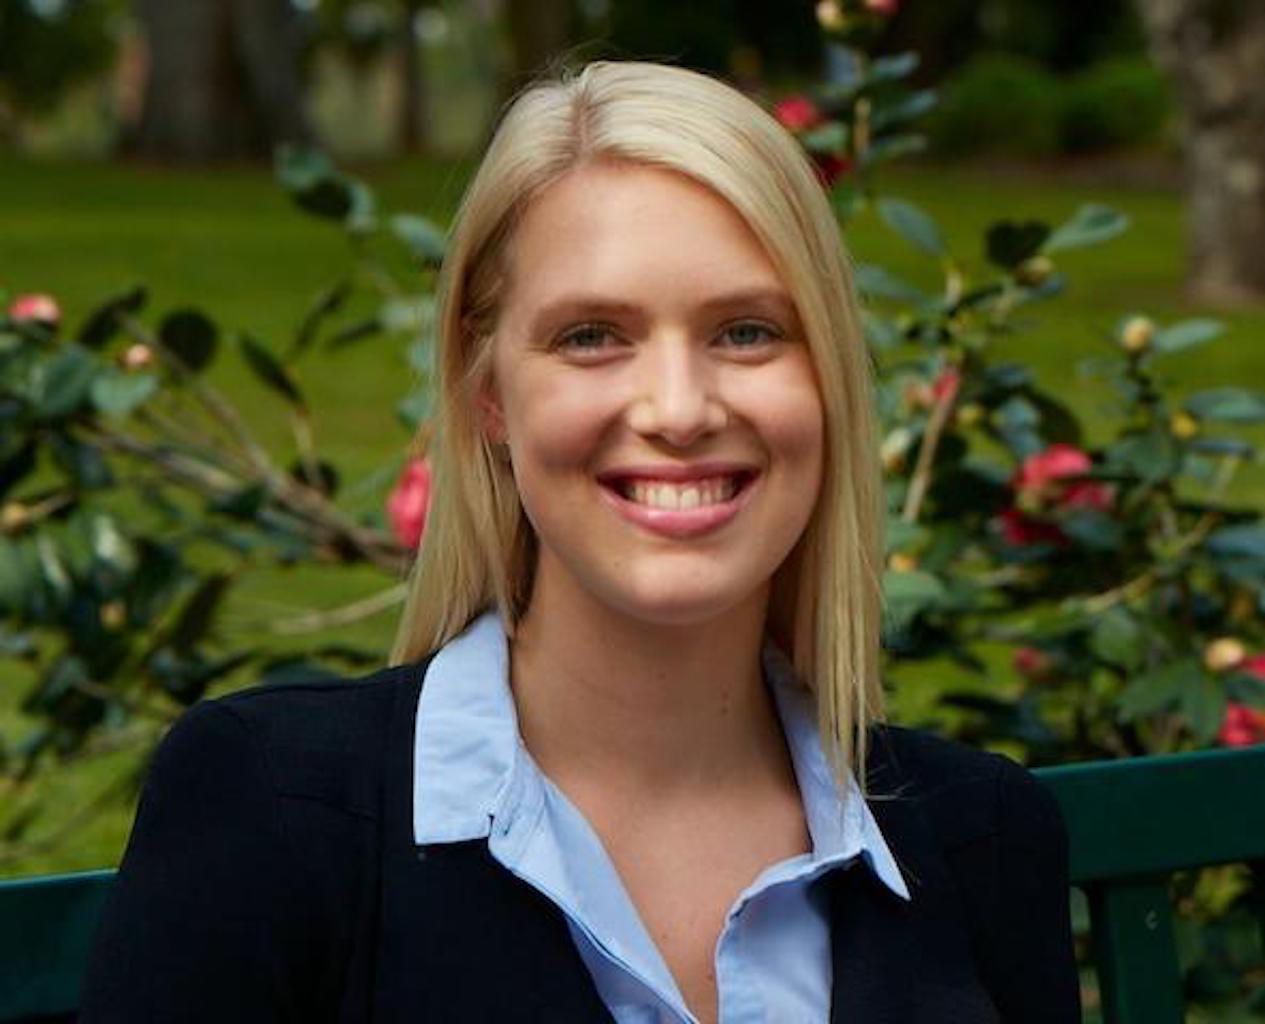
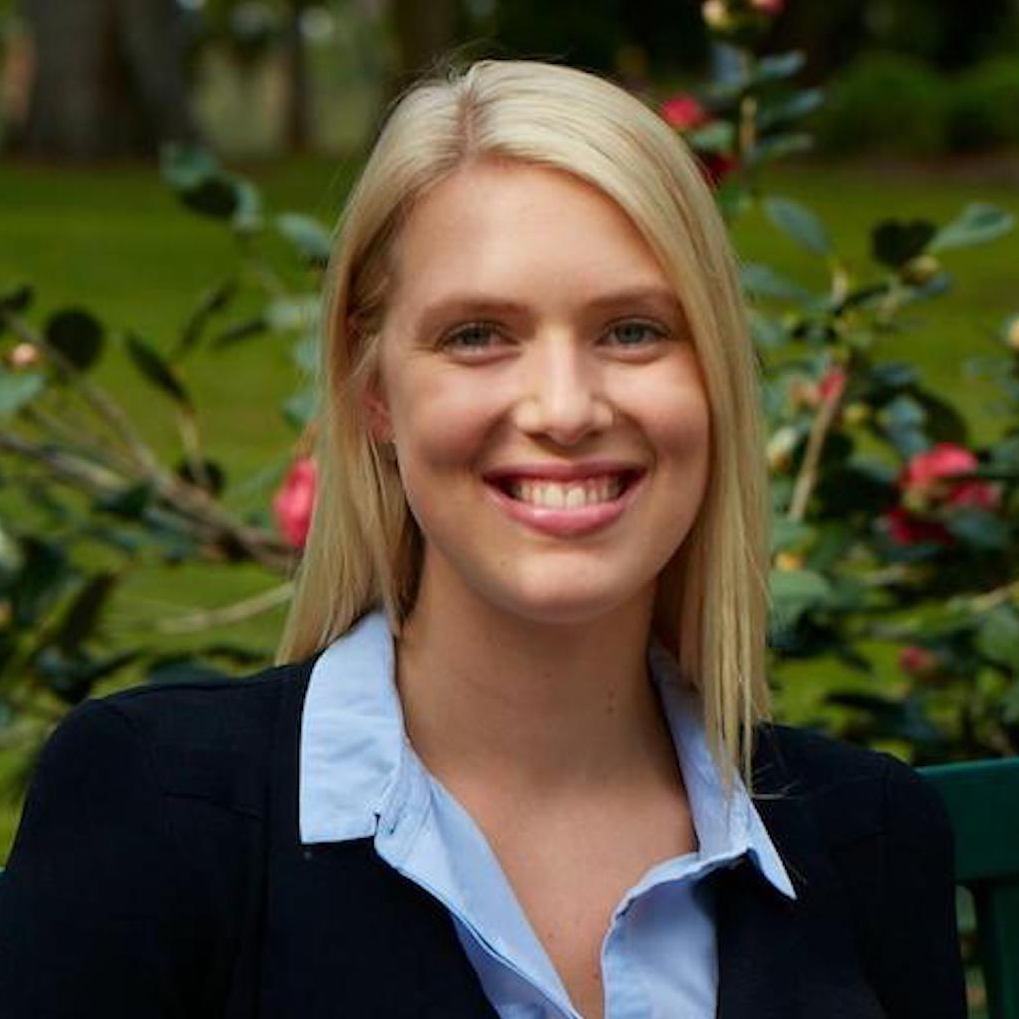
team updates
Fixed build failure for added members
Fixed image aspect ratio for portrait
Added missing image

diff --git a/_team/nicholas-devito.md b/_team/nicholas-devito.md
@@ -2,8 +2,8 @@
 firstname: Nicholas
 lastname: DeVito
 position: DPhil Student and Researcher
-image_src: blank.png
-twitter: @ndevito1
+image_src: nicholas-devito.png
+twitter: ndevito1
 orcid: 0000-0001-8286-1995
 github: NickCEBM
 osf: https://osf.io/7smdb

diff --git a/_team/georgia-richards.md b/_team/georgia-richards.md
@@ -3,7 +3,7 @@ firstname: Georgia
 lastname: Richards
 position: Doctoral (DPhil) Candidate
 image_src: georgia-richards.png
-twitter: @Richards_G_C
+twitter: Richards_G_C
 orcid: 0000-0003-0244-5620
 github: georgiarichards
 osf: https://osf.io/profile/

diff --git a/_team/paul-thompson.md b/_team/paul-thompson.md
@@ -3,7 +3,7 @@ firstname: Paul
 lastname: Thompson
 position: Postdoctoral Research Associate | Statistician
 image_src: paul-thompson.png
-twitter: @stat_PT
+twitter: stat_PT
 orcid: 0000-0001-9940-6913
 github: p1981thompson
 osf: https://osf.io/m3hw2/

diff --git a/_team/nils-reimer.md b/_team/nils-reimer.md
@@ -3,7 +3,7 @@ firstname: Nils
 lastname: Reimer
 position: Postdoctoral Researcher
 image_src: nils-reimer.png
-twitter: @reimthyme
+twitter: reimthyme
 orcid: 0000-0002-0692-0022
 github: nilsreimer
 osf: https://osf.io/s3pxu
